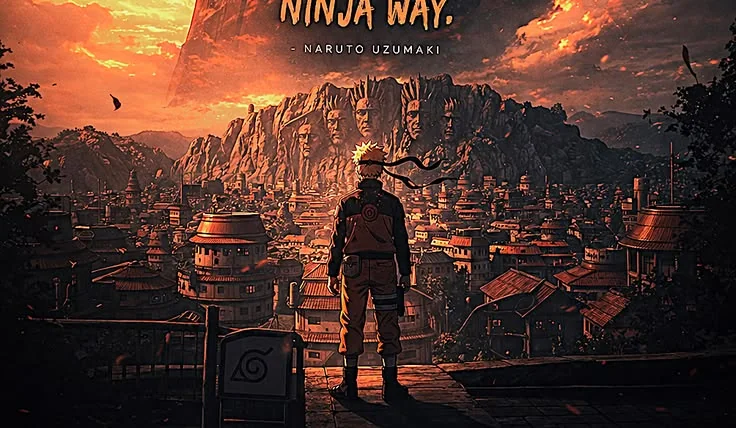
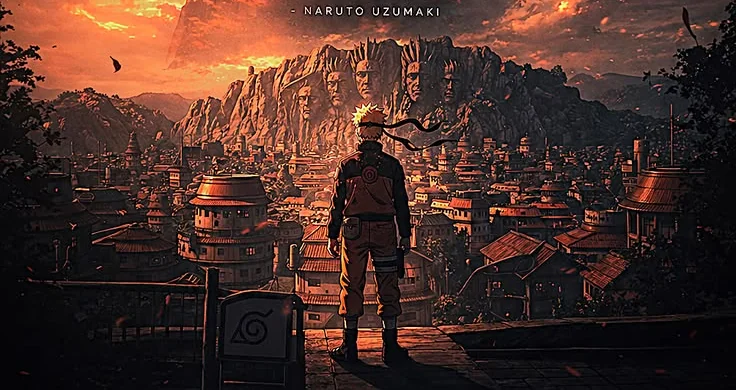
Fix mobile layout: hero, Ichiraku, quote band, section rhythm
- Hero: the Sage renders first on phones so he is on screen at load instead
  of below the fold; canvas DPR raised to 2 (1.25 was visibly blocky on phone
  screens); the scroll hint is desktop-only, it sat on his legs
- Ichiraku: a phone-sized scene band with a tighter fit so the shop reads, and
  the overlay title only where it has room
- Quote band: on phones the landscape art is a crisp strip above the quote
  rather than blown up behind it; crop moved past the poster's baked-in credit
- Byakugan panel scrolls within the viewport when stacked on a phone
- Tighter section padding and a smaller AI Gallery poster on small screens

diff --git a/src/components/NinjaWayBand.tsx b/src/components/NinjaWayBand.tsx
@@ -34,9 +34,10 @@ export const NinjaWayBand = () => {
   const imageY = useTransform(scrollYProgress, [0, 1], ["-6%", "6%"]);
 
   return (
-    <section ref={ref} className="relative py-24 bg-background" aria-label="The Ninja Way">
+    <section ref={ref} className="relative py-10 lg:py-24 bg-background" aria-label="The Ninja Way">
       <div className="container mx-auto px-6">
-        <div className="relative overflow-hidden rounded-3xl border border-white/[0.07] min-h-[560px] lg:min-h-[640px]">
+        <div className="relative overflow-hidden rounded-3xl border border-white/[0.07] bg-[#07070b] lg:min-h-[640px]">
+          <div className="relative h-56 overflow-hidden sm:h-72 lg:absolute lg:inset-0 lg:h-auto">
           <motion.img
             src={konohaDusk}
             alt="Konoha village and the Hokage rock at dusk, Naruto looking out over it"
@@ -44,16 +45,19 @@ export const NinjaWayBand = () => {
             style={{ scale: imageScale, y: imageY, filter: "saturate(1.3) brightness(1.12)" }}
             loading="lazy"
           />
+          {/* Phones: the strip fades into the quote panel below it */}
+          <div className="absolute inset-0 bg-gradient-to-t from-[#07070b] via-transparent to-transparent lg:hidden" />
+          </div>
 
-          {/* Legibility: a hard ink fade on the left, not a blur over the art */}
-          <div className="absolute inset-0 bg-gradient-to-r from-[#07070b]/95 via-[#07070b]/55 via-45% to-transparent to-75%" />
-          <div className="absolute inset-0 bg-gradient-to-t from-[#07070b]/70 via-transparent to-transparent" />
+          {/* Legibility on desktop: a hard ink fade on the left, not a blur over the art */}
+          <div className="absolute inset-0 hidden bg-gradient-to-r from-[#07070b]/95 via-[#07070b]/55 via-45% to-transparent to-75% lg:block" />
+          <div className="absolute inset-0 hidden bg-gradient-to-t from-[#07070b]/70 via-transparent to-transparent lg:block" />
           {/* Manga screentone keeps the upscaled art from reading soft */}
           <div className="absolute inset-0 screentone opacity-60 mix-blend-overlay" />
 
-          <div className="relative z-10 flex h-full min-h-[560px] lg:min-h-[640px] flex-col justify-center px-8 py-16 sm:px-14 lg:w-[70%]">
+          <div className="relative z-10 flex h-full flex-col justify-center px-6 pb-12 pt-2 sm:px-14 lg:min-h-[640px] lg:w-[70%] lg:py-16">
             <motion.p
-              className="mb-8 font-mono text-xs uppercase tracking-[0.45em] text-[hsl(var(--sunset))]"
+              className="mb-6 font-mono text-[10px] uppercase tracking-[0.3em] text-[hsl(var(--sunset))] sm:mb-8 sm:text-xs sm:tracking-[0.45em]"
               initial={{ opacity: 0, y: 12 }}
               whileInView={{ opacity: 1, y: 0 }}
               viewport={{ once: true, margin: "-80px" }}
@@ -62,7 +66,7 @@ export const NinjaWayBand = () => {
               The Will of Fire
             </motion.p>
 
-            <blockquote className="font-display text-4xl leading-[1.12] tracking-wide text-white drop-shadow-[0_2px_10px_rgba(0,0,0,0.8)] sm:text-5xl lg:text-[3.3rem]">
+            <blockquote className="font-display text-4xl leading-[1.12] tracking-wide text-white drop-shadow-[0_2px_10px_rgba(0,0,0,0.8)] text-[2rem] sm:text-5xl lg:text-[3.3rem]">
               {LINES.map((line, i) => (
                 <motion.span
                   key={line.text}

diff --git a/src/components/three/NarutoModels.tsx b/src/components/three/NarutoModels.tsx
@@ -39,7 +39,7 @@ export const HeroNaruto = () => {
       <Canvas
         flat
         shadows={!isMobile}
-        dpr={[1, isMobile ? 1.25 : 1.75]}
+        dpr={[1, isMobile ? 2 : 1.75]}
         gl={{ antialias: !isMobile, powerPreference: 'high-performance' }}
       >
         <PerspectiveCamera makeDefault position={[0, 0, 8]} fov={fov} />
@@ -53,7 +53,7 @@ export const HeroNaruto = () => {
         <Suspense fallback={<ModelLoader />}>
           {/* Below 1: his bounding box includes the orbs and rods floating round
               him, so fitting it exactly leaves his body well under half the frame. */}
-          <FitCamera url={HERO_MODEL} fitHeight={modelHeight} fov={fov} margin={0.86} />
+          <FitCamera url={HERO_MODEL} fitHeight={modelHeight} fov={fov} margin={isMobile ? 0.8 : 0.86} />
 
           <Float speed={1.1} rotationIntensity={0.07} floatIntensity={0.2}>
             <OptimizedModel
@@ -105,7 +105,7 @@ export const BaryonNaruto = () => {
 
   return (
     <div className="w-full h-full">
-      <Canvas flat dpr={[1, isMobile ? 1.25 : 1.5]} gl={{ antialias: !isMobile }}>
+      <Canvas flat dpr={[1, isMobile ? 1.75 : 1.5]} gl={{ antialias: !isMobile }}>
         <PerspectiveCamera makeDefault position={[0, 0, 8]} fov={42} />
 
         <Suspense fallback={<ModelLoader />}>
@@ -192,7 +192,7 @@ export const RamenShop = () => {
 
   return (
     <div className="w-full h-full">
-      <Canvas flat dpr={[1, isMobile ? 1.25 : 1.5]} shadows={!isMobile} gl={{ antialias: !isMobile }}>
+      <Canvas flat dpr={[1, isMobile ? 1.75 : 1.5]} shadows={!isMobile} gl={{ antialias: !isMobile }}>
         <PerspectiveCamera makeDefault position={[10, 5, 15]} fov={fov} />
 
         {/* Base exposure: warm lantern sky over a dark street. The old rig was a
@@ -212,7 +212,7 @@ export const RamenShop = () => {
             url={RAMEN_MODEL}
             fitHeight={height}
             fov={fov}
-            margin={1.55}
+            margin={isMobile ? 1.2 : 1.55}
             direction={[0.62, 0.3, 0.72]}
           />
           <OptimizedModel

diff --git a/src/components/HeroSection.tsx b/src/components/HeroSection.tsx
@@ -52,7 +52,7 @@ export const HeroSection = ({ isIntroComplete }: HeroSectionProps) => {
         }
         transition={{ duration: 0.55, ease: "easeOut" }}
       >
-        <div className="grid grid-cols-1 lg:grid-cols-2 gap-12 items-center">
+        <div className="grid grid-cols-1 lg:grid-cols-2 gap-2 lg:gap-12 items-center">
           
           {/* Left Side: Content */}
           <motion.div
@@ -106,7 +106,7 @@ export const HeroSection = ({ isIntroComplete }: HeroSectionProps) => {
           
           {/* Right Side: 3D Sage Centerpiece */}
           <motion.div 
-            className="relative h-[62vh] lg:h-[86vh] z-10 cursor-grab active:cursor-grabbing"
+            className="relative order-first lg:order-none h-[44vh] sm:h-[55vh] lg:h-[86vh] z-10 cursor-grab active:cursor-grabbing"
             initial={{ opacity: 0, scale: 0.82 }}
             animate={isIntroComplete ? { opacity: 1, scale: 1 } : {}}
             transition={{ duration: 1.1, ease: [0.16, 1, 0.3, 1], delay: 0.12 }}
@@ -123,7 +123,7 @@ export const HeroSection = ({ isIntroComplete }: HeroSectionProps) => {
 
       {/* Scroll indicator - Cinematic Style */}
       <motion.div 
-        className="absolute bottom-12 left-1/2 -translate-x-1/2 flex flex-col items-center gap-4"
+        className="absolute bottom-12 left-1/2 -translate-x-1/2 hidden lg:flex flex-col items-center gap-4"
         initial={{ opacity: 0 }}
         animate={isIntroComplete ? { opacity: 1 } : {}}
         transition={{ delay: 2 }}

diff --git a/src/components/IchirakuFooter.tsx b/src/components/IchirakuFooter.tsx
@@ -50,7 +50,7 @@ export const IchirakuFooter = () => {
     <footer id="contact" className="relative overflow-hidden bg-background">
       {/* Scene band: the shop, clear and lit, with only a thin edge fade */}
       <div
-        className="relative h-[68vh] min-h-[480px]"
+        className="relative h-[46vh] min-h-[320px] sm:h-[68vh] sm:min-h-[480px]"
         style={{ background: "radial-gradient(ellipse at 50% 70%, #3a1d0c 0%, #140b07 55%, hsl(var(--background)) 100%)" }}
       >
         <ViewportMount className="absolute inset-0">
@@ -64,7 +64,7 @@ export const IchirakuFooter = () => {
         <div className="pointer-events-none absolute inset-x-0 top-0 h-24 bg-gradient-to-b from-background to-transparent" />
         <div className="pointer-events-none absolute inset-x-0 bottom-0 h-40 bg-gradient-to-t from-background to-transparent" />
 
-        <div className="pointer-events-none container relative z-10 mx-auto flex h-full items-end px-6 pb-10">
+        <div className="pointer-events-none container relative z-10 mx-auto hidden h-full items-end px-6 pb-10 sm:flex">
           <div className="flex w-full items-end justify-between gap-6">
             <div>
               <p className="mb-2 font-mono text-[10px] uppercase tracking-[0.4em] text-[hsl(var(--sunset))]">

diff --git a/src/components/AIGallerySection.tsx b/src/components/AIGallerySection.tsx
@@ -158,12 +158,12 @@ export const AIGallerySection = () => {
   const closePreview = useCallback(() => setPreview(null), []);
 
   return (
-    <section id="ai-gallery" className="py-32 relative overflow-hidden">
+    <section id="ai-gallery" className="py-16 lg:py-32 relative overflow-hidden">
       <div className="container mx-auto px-6 relative z-10">
         {/* Header beside the manga poster: back turned, walking between the pages */}
         <div className="mb-16 grid grid-cols-1 items-center gap-10 lg:grid-cols-12">
           <motion.figure
-            className="relative mx-auto w-full max-w-[340px] overflow-hidden rounded-2xl border border-white/10 lg:col-span-4"
+            className="relative mx-auto w-full max-w-[230px] sm:max-w-[340px] overflow-hidden rounded-2xl border border-white/10 lg:col-span-4"
             initial={{ opacity: 0, y: 30 }}
             whileInView={{ opacity: 1, y: 0 }}
             viewport={{ once: true }}

diff --git a/src/components/ByakuganPreview.tsx b/src/components/ByakuganPreview.tsx
@@ -200,7 +200,7 @@ export const ByakuganPreview = ({ item, onClose }: { item: ByakuganItem | null; 
             {phase === "seeing" && (
               <motion.div
                 key="panel"
-                className="relative z-10 grid w-full max-w-5xl overflow-hidden rounded-2xl border bg-[#0d0b16] md:grid-cols-5"
+                className="relative z-10 grid max-h-[88vh] w-full max-w-5xl overflow-y-auto rounded-2xl border bg-[#0d0b16] md:max-h-none md:grid-cols-5 md:overflow-hidden"
                 style={{ borderColor: "rgba(203,188,255,0.28)", boxShadow: "0 0 0 1px rgba(203,188,255,0.06), 0 30px 80px rgba(0,0,0,0.7)" }}
                 initial={{ opacity: 0, scale: 0.94, y: 20 }}
                 animate={{ opacity: 1, scale: 1, y: 0 }}

diff --git a/src/components/AboutSection.tsx b/src/components/AboutSection.tsx
@@ -55,7 +55,7 @@ const Poster = ({
 
 export const AboutSection = () => {
   return (
-    <section id="about" className="relative overflow-hidden bg-background py-28 lg:py-36">
+    <section id="about" className="relative overflow-hidden bg-background py-16 lg:py-36">
       <div className="container relative z-10 mx-auto px-6">
         <ScrollReveal className="mb-16 text-center lg:mb-24">
           <div className="mb-4 inline-block rounded-md border border-primary/30 bg-primary/10 px-3 py-1">

diff --git a/src/components/ProjectsSection.tsx b/src/components/ProjectsSection.tsx
@@ -173,7 +173,7 @@ export const ProjectsSection = () => {
   const closePreview = useCallback(() => setPreview(null), []);
 
   return (
-    <section id="projects" className="relative bg-background py-28 lg:py-36">
+    <section id="projects" className="relative bg-background py-16 lg:py-36">
       <div className="container relative z-10 mx-auto px-6">
         <ScrollReveal className="mb-14 flex flex-col gap-6 lg:mb-20 lg:flex-row lg:items-end lg:justify-between">
           <div>

diff --git a/src/components/SkillsSection.tsx b/src/components/SkillsSection.tsx
@@ -143,7 +143,7 @@ const SkillCard = ({ category, index }: { category: SkillCategory; index: number
 
 export const SkillsSection = () => {
   return (
-    <section id="skills" className="py-16 sm:py-24 lg:py-32 relative overflow-hidden">
+    <section id="skills" className="py-10 sm:py-24 lg:py-32 relative overflow-hidden">
 
       <div className="container mx-auto px-4 sm:px-6 relative z-10">
         {/* Nine-Tails banner: the stack framed as chakra Naruto draws on */}
